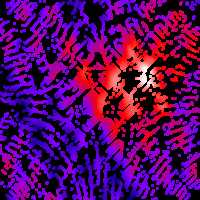
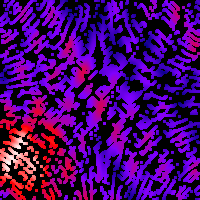
updated functionality

diff --git a/ABRMAR043/ParallelSolution/HuntParallel.java b/ABRMAR043/ParallelSolution/HuntParallel.java
@@ -12,10 +12,12 @@ public class HuntParallel extends RecursiveAction {
 	//______________
 
 	private int startSearch; 
-	private int endSearch; 
-	private int threshold; 
-	private int localMax; 
+	private int endSearch;  
+	private int localMax = Integer.MIN_VALUE; 
 	private HuntParallel[] searches; 
+
+	private static final int THRESHOLD = 100;
+
 	//______________
 	
 	public enum Direction {
@@ -39,37 +41,34 @@ public class HuntParallel extends RecursiveAction {
 	}
 
 	//_____________
-	public HuntParallel(int id, int posRow, int posCol, DungeonMapParallel dungeon, int startSearch, int endSearch, int threshold){
-		this.id = id;
-		this.posRow = pos_row;
-		this.posCol = pos_col; 
-		this.dungeon = dungeon;
-		this.startSearch = startSearch; 
-		this.endSearch = endSearch; 
-		this.threshold = threshold; 
+	public HuntParallel( HuntParallel[] searches, int startSearch, int endSearch){
+		this.searches = searches;
+        this.startSearch = startSearch;
+        this.endSearch = endSearch;
 	}
 	//hello world 
 	//_____________
 
 	//________________________________________________________
 	
-	public void compute(){	
+	@Override
+	protected void compute(){	
 
 		if(searches == null){
-			findManaPeak(); 
+			this.localMax = findManaPeak(); 
 			return;
 		}
 
-		if (endSearch - startSearch <= threshold){
+		if (endSearch - startSearch <= THRESHOLD){
 			// Base case
 			for (int i = startSearch; i < endSearch; i++){
-				searches[i].findManaPeak(); 
+				searches[i].localMax = searches[i].findManaPeak(); 
 			}	
 		} else {
 			int mid = (startSearch + endSearch)/2;
 			
-			HuntParallel l = new HuntParallel(id, posRow, posCol, dungeon, startSearch, mid, threshold); 
-			HuntParallel r = new HuntParallel(id, posRow, posCol, dungeon, startSearch, mid, threshold); 
+			HuntParallel l = new HuntParallel(searches, startSearch, mid); 
+			HuntParallel r = new HuntParallel(searches, mid, endSearch); 
 			l.fork(); 			// left in parallel
 			r.compute(); 		// compute right
 			l.join(); 			// wait for left to complete

diff --git a/ABRMAR043/ParallelSolution/DungeonHunterParallel.java b/ABRMAR043/ParallelSolution/DungeonHunterParallel.java
@@ -4,6 +4,7 @@ import java.util.concurrent.ForkJoinPool;
 
 class DungeonHunterParallel{
 
+		static final boolean DEBUG=false;
 		//timers for how long it all takes
 		static long startTime = 0;
 		static long endTime = 0;
@@ -56,6 +57,7 @@ class DungeonHunterParallel{
 			
 			int dungeonRows=dungeon.getRows();
 			int dungeonColumns=dungeon.getColumns();
+
 			 searches= new HuntParallel [numSearches];
 			for (int i=0;i<numSearches;i++)  //intialize searches at random locations in dungeon
 				searches[i]=new HuntParallel(i+1, rand.nextInt(dungeonRows),
@@ -65,15 +67,15 @@ class DungeonHunterParallel{
 			//_______________________________________________________________________________________________________
 
 			int max =Integer.MIN_VALUE;
-			int localMax=Integer.MIN_VALUE;
 			int finder =-1;
 
 			tick();  //start timer
 
-			int threshold = 1000; 
+			int threshold = 100; 
 			ForkJoinPool pool = new ForkJoinPool(); 
-			HuntParallel mainTask = new HuntParallel(0, 0, 0, dungeon, searches, 0, numSearches, threshold); 
+			HuntParallel mainTask = new HuntParallel(searches, 0, numSearches); 
 			pool.invoke(mainTask); 
+			pool.shutdown();
 
 			for (int i = 0; i < numSearches, i++) {
 				int currentMax = searches[i].getLocalMax(); 
@@ -106,4 +108,3 @@ class DungeonHunterParallel{
 			dungeon.visualisePowerMap("visualiseSearch.png", false);
 			dungeon.visualisePowerMap("visualiseSearchPath.png", true);
 		}
-	}
